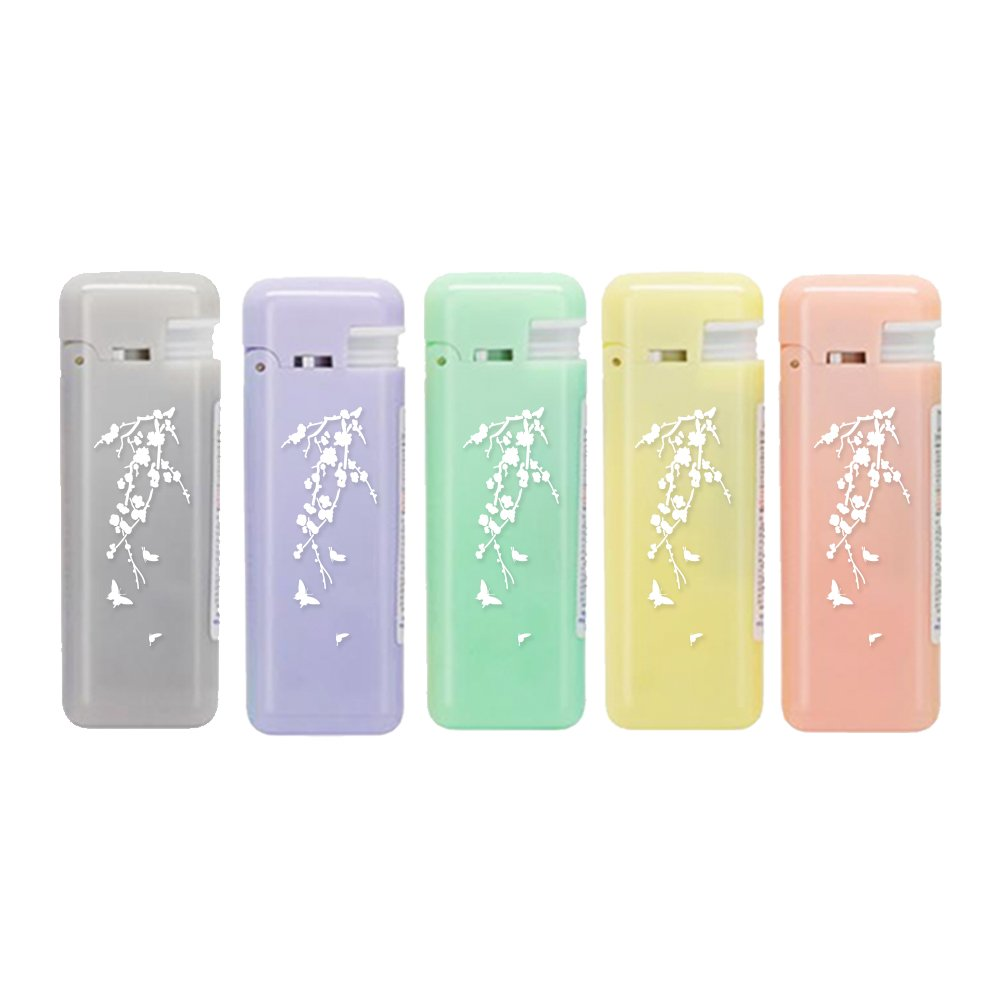
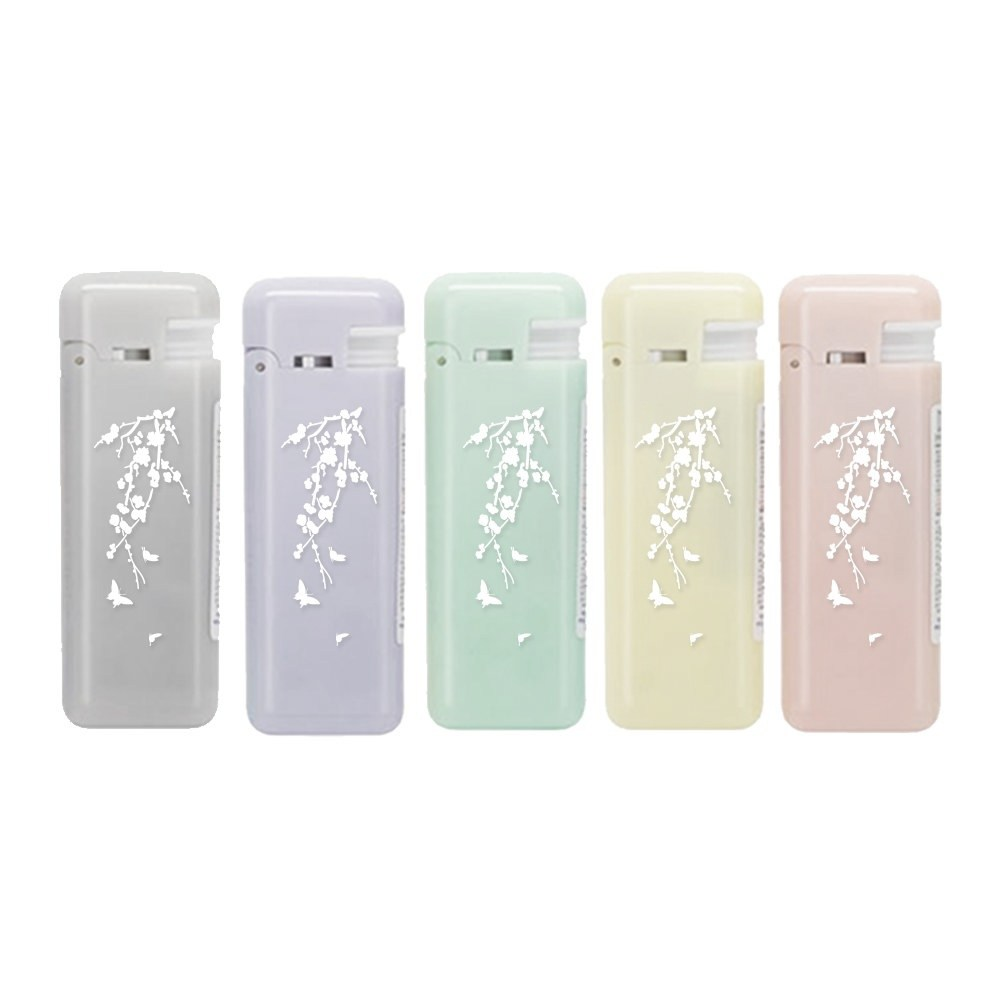
Product: hide works without a white-background cut-out (hidden: true); softer, faded colours for the Pieonam lighter

diff --git a/works-data.js b/works-data.js
@@ -6,6 +6,7 @@
    - 3D(object 목록) / Product(product 목록) / Graphic 작업은 아래에서 수정하세요.
    - product: Product 화면 가운데에 뜨는 건 누끼 이미지예요. cutouts: ['images/product/...png'] 에 배경 없는 PNG 를 적어요.
      cutouts 가 없으면 images 의 사진을 대신 써요.
+   - hidden: true 를 적으면 그 작품은 사이트 어디에도 안 보여요(지우면 다시 보여요).
    - product 의 size: .7 처럼 적으면 Product 화면 가운데 사진이 그만큼 작게 떠요(1 = 기본).
    - product 의 kind 는 Product 화면 위쪽 분류 버튼이에요(Living · Stationery · Accessories). 새 이름을 적으면 버튼이 자동으로 생겨요.
    - type 은 작업 종류(예: 3D, Metal Craft, Product, Poster …)예요.
@@ -155,7 +156,8 @@ window.OTHER_WORKS = {
       desc: '화이트·블랙 피시 스티커 — fancy goldfish in pure white and deep black, as clear sticker strips scattered over laptops and phone cases.',
       images: Array.from({ length: 33 }, (_, i) => `images/product/goldfish-stickers/${String(i + 1).padStart(2, '0')}.jpg`),
       cutouts: ['images/product/goldfish-stickers/cover.jpg'] },
-    { title: 'Rose Stickers', kind: 'Stationery', type: 'Sticker · FromW2', year: '2024',
+    { title: 'Rose Stickers', kind: 'Stationery', hidden: true,   // no white-background cut-out yet
+      type: 'Sticker · FromW2', year: '2024',
       desc: '장미 스티커 — monochrome roses and bows, stuck on a white iPhone and a grey iPad.',
       images: Array.from({ length: 4 }, (_, i) => `images/product/rose-stickers/${String(i + 1).padStart(2, '0')}.jpg`),
       cutouts: ['images/product/rose-stickers/cover.jpg'] },
@@ -168,7 +170,8 @@ window.OTHER_WORKS = {
       desc: '피어남 라이터 — blooming flowers in white on pastel lighters: grey, lilac, mint, lemon and peach.',
       images: Array.from({ length: 6 }, (_, i) => `images/product/pieonam-lighter/${String(i + 1).padStart(2, '0')}.jpg`),
       cutouts: ['images/product/pieonam-lighter/cover.jpg'] },
-    { title: 'About Love Lighter', kind: 'Accessories', size: .7, type: 'Lighter · FromW2', year: '2024',
+    { title: 'About Love Lighter', kind: 'Accessories', hidden: true,   // no white-background cut-out yet
+      size: .7, type: 'Lighter · FromW2', year: '2024',
       desc: '사랑에 관하여 라이터 — the words of the About Love tape, printed on soft pink lighters.',
       images: Array.from({ length: 1 }, (_, i) => `images/product/about-love-lighter/${String(i + 1).padStart(2, '0')}.jpg`),
       cutouts: ['images/product/about-love-lighter/cover.jpg'] },
@@ -176,7 +179,8 @@ window.OTHER_WORKS = {
       desc: '발레슈 케이스 — satin pointe shoes and loose ribbons printed on a soft pink iPad folio tied with a real ribbon, and on clear phone cases in pink, black and silver.',
       images: Array.from({ length: 9 }, (_, i) => `images/product/ballet-ipad-case/${String(i + 1).padStart(2, '0')}.jpg`),
       cutouts: ['images/product/ballet-ipad-case/cover.jpg'] },
-    { title: 'Rose iPad Case', kind: 'Accessories', type: 'iPad Case · FromW2', year: '2024',
+    { title: 'Rose iPad Case', kind: 'Accessories', hidden: true,   // no white-background cut-out yet
+      type: 'iPad Case · FromW2', year: '2024',
       desc: 'Rose Juicy and Pale Rose prints carried onto iPad cases, used at the desk and on the go.',
       images: Array.from({ length: 8 }, (_, i) => `images/product/rose-ipad-case/${String(i + 1).padStart(2, '0')}.jpg`),
       cutouts: ['images/product/rose-ipad-case/cover.jpg'] },
@@ -280,6 +284,8 @@ window.OTHER_WORKS = {
       images: ['', ''] },
   ],
 };
+// works marked hidden: true are left out everywhere (Product page, detail pages, Archive) until the mark is removed
+for (const k of Object.keys(window.OTHER_WORKS)) window.OTHER_WORKS[k] = window.OTHER_WORKS[k].filter(w => !w.hidden);
 
 window.WorksData = (() => {
   const CATEGORY_NAMES = { fashion: 'Fashion', object: '3D', product: 'Product', graphic: 'Graphic' };
